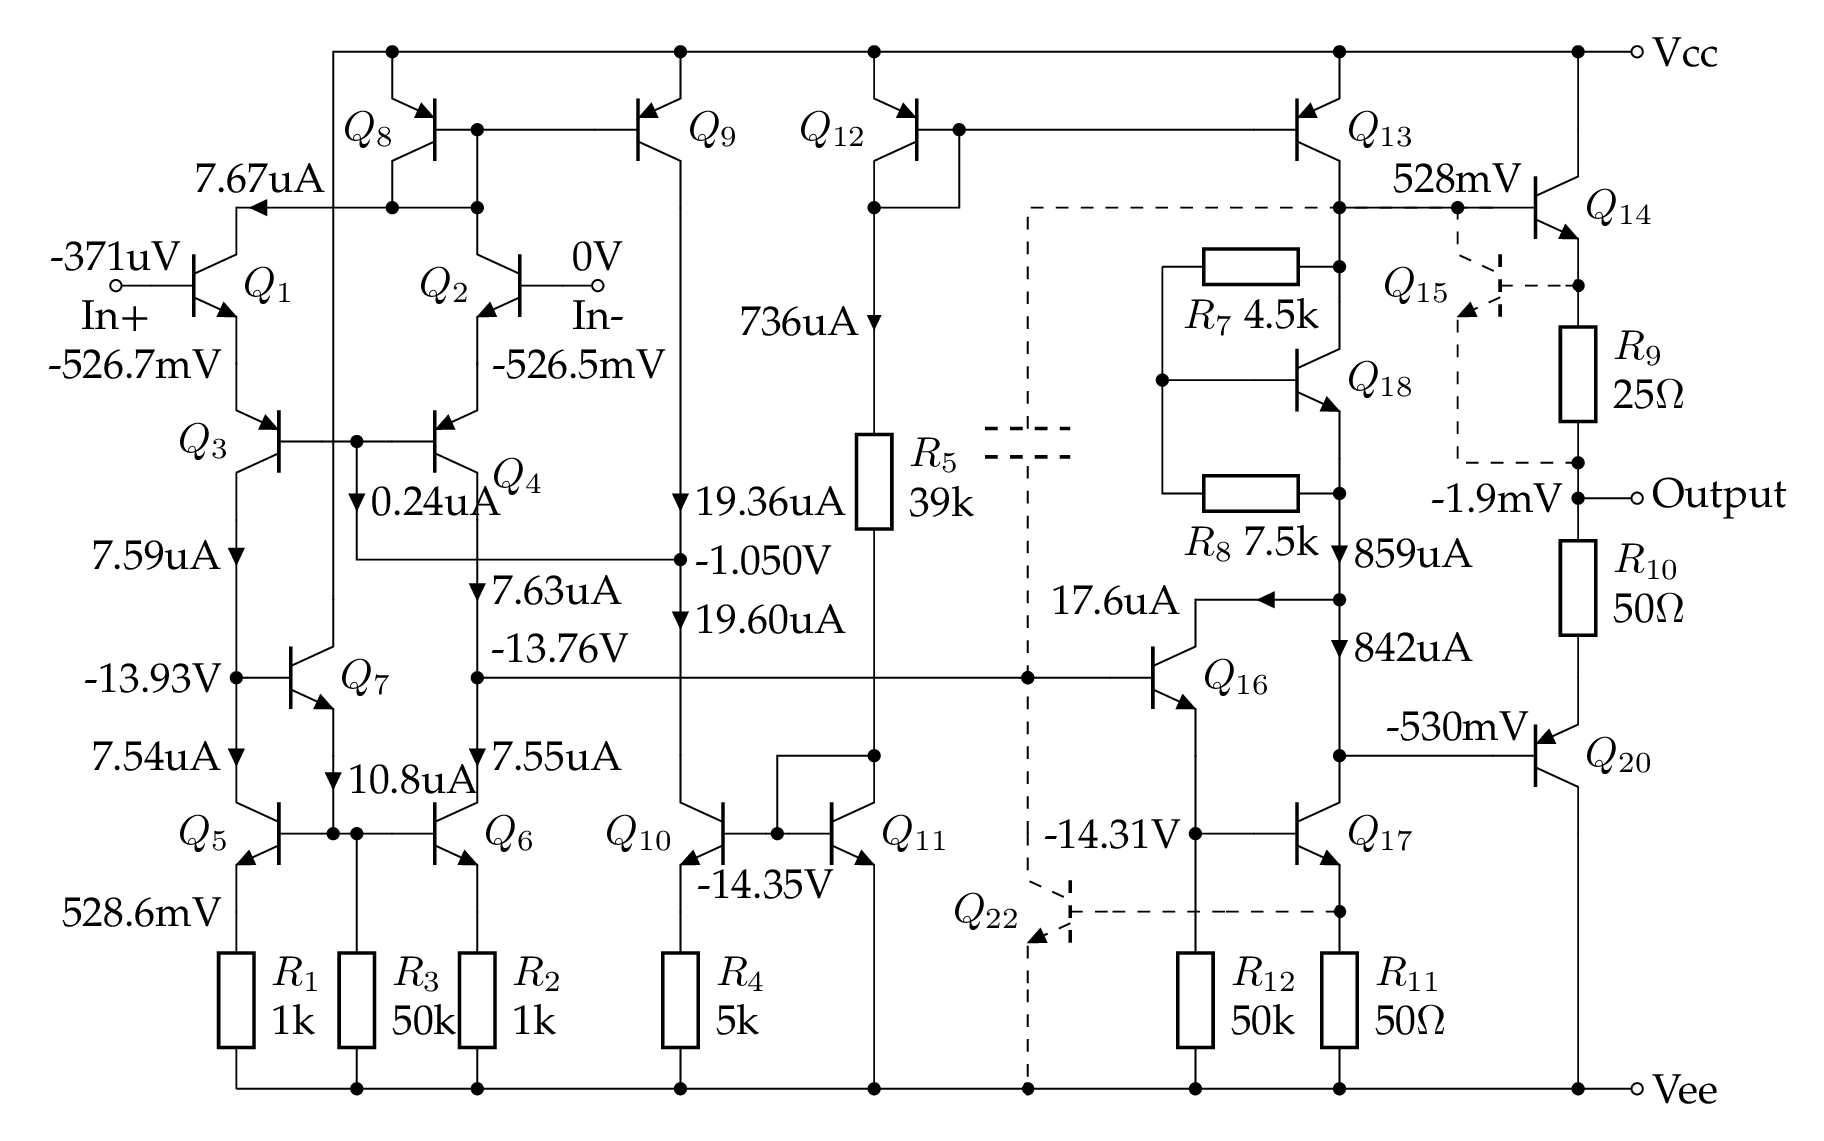
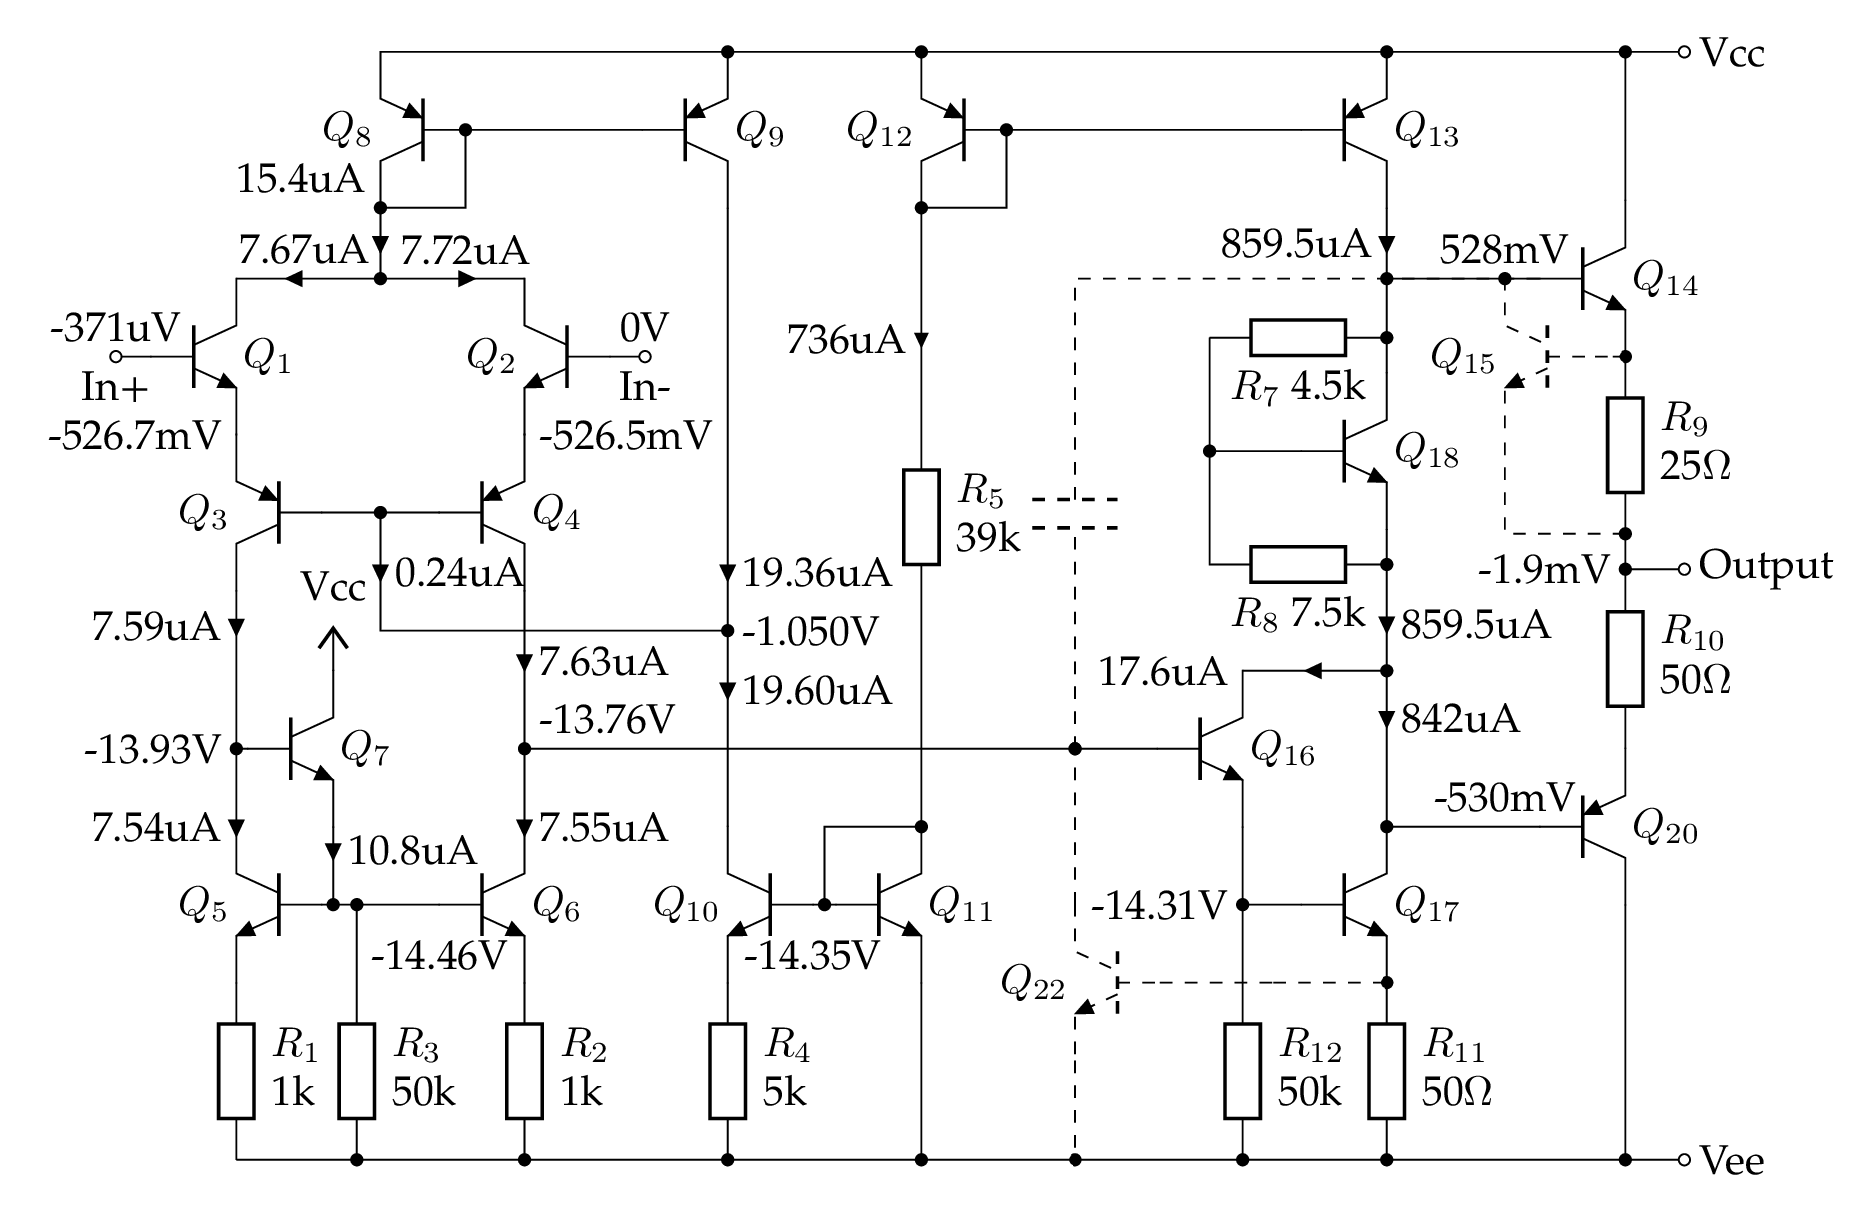
Update 741 notes.

Changed region(s): [[0.0312, 0.0307, 1.0, 0.9816], [0.4062, 0.2454, 0.5, 0.3067], [0.5312, 0.5828, 0.5938, 0.6442]]

diff --git a/docs/741.md b/docs/741.md
@@ -23,6 +23,7 @@ Dave Fullagar and [history of µA741](741/ho18opamp.pdf)
 其中面积最大的发亮的区域是 30pF 的补偿电容。
 
 ## 内部电路
+
 741 内部电路很经典，国内的模电教材上常讲的 F007 运放其实是 µA741 的“山寨版”，“F”字头我猜代表“放”大。741 的内部电路有两个常见的版本，分别有 20 个三极管和 24 个三极管，以下称为 20T 版和 24T 版。
 
 为了简化，两个调零的引脚没有画出来。
@@ -82,7 +83,7 @@ FIXME: 分立器件 XL741 笔记
 
 ### 直流工作点计算
 
-假设 \(\beta \gg 1\)，忽略基极电流，\(I_\mathrm{C}\approx I_\mathrm{E}\)：
+假设所有三极管 \(I_\mathrm{S} = 10\)fA，除输出推挽管 Q14/Q20 外，面积均相等。假设 \(\beta \gg 1\)，忽略基极电流，\(I_\mathrm{C}\approx I_\mathrm{E}\)：
 
 * 假设 Vbe = 0.65V，\(I_\mathrm{REF} = I_\mathrm{R5} = \dfrac{30-0.65\times 2}{39\mathrm{k}}\approx 0.736 \mathrm{mA}\)。Q12/Q13 是电流镜 \(I_\mathrm{C11} \approx I_\mathrm{C12} \approx I_\mathrm{C13} \approx I_\mathrm{REF} = 0.736 \mathrm{mA}\)
 
@@ -118,12 +119,12 @@ FIXME: 分立器件 XL741 笔记
 * \(I_\mathrm{B17} = I_\mathrm{E17} / (\beta+1) = 3.6\)µA
 * \(I_\mathrm{C16} \approx I_\mathrm{E16} = 13.7+3.6 = 17.3\)µA
 
-输出级：
+输出级，一般认为 Q14 和 Q20 的面积是普通管子的 3 倍：
 
 * 近似认为 Q18 的电流是 \(I_\mathrm{REF} = 0.736\)mA，则 \(V_\mathrm{BE18}\approx 0.65\)V，考虑 Q18 的 Vbe 倍增效果，\(V_\mathrm{CE18}\approx (1+\dfrac{R_7}{R_8}) V_\mathrm{BE18} = 1.6 \times 0.65 = 1.04\)V
 * 当输出为 0V 时，\(I_\mathrm{E14} = I_\mathrm{E20}\)，所以认为 \(V_\mathrm{BE14}\) 和 \(V_\mathrm{BE20}\) 平分 \(V_\mathrm{CE18}\)，即  \(V_\mathrm{BE14} =  V_\mathrm{BE20} = V_\mathrm{CE18}/2 = 0.52\)V
 
-* Q14 和 Q20 的静态偏置电流为 \(I_\mathrm{S}\exp\dfrac{V_\mathrm{BE14}}{V_\mathrm{T}} = 10\times 10 ^{-15} \exp\dfrac{0.52}{0.0258}\approx 5.7\)µA
+* Q14 和 Q20 的静态偏置电流为 \(3 I_\mathrm{S}\exp\dfrac{V_\mathrm{BE14}}{V_\mathrm{T}} = 10\times 10 ^{-15} \exp\dfrac{0.52}{0.0258}\approx 17\)µA
 
 至此，全部管子的直流工作点已经求出来。
 
@@ -138,5 +139,28 @@ FIXME: 分立器件 XL741 笔记
 ![](741/lm741-24t.png)
 
 上图把 Q22 画成普通 PNP 管，把它的第二发射极画成一个二极管。Q24 画成镜像电流源常见的形式，R5 取 39k，和手册略有不同，但和 XL741 和 Sedra&Smith 书一致。
+
+
+Q1 ~ Q12 的偏置电流的计算方法和 20T 版完全一样，此处不再重复，而直接列出结果。
+假设 \(\beta \gg 1\)，忽略基极电流，\(I_\mathrm{C}\approx I_\mathrm{E}\)：
+
+| 三极管 | \(I_\mathrm{C}\) (µA)| 计算方法 |
+| --- | --- | --- |
+| Q11/Q12 | 736 | \(I_\mathrm{REF}=\dfrac{30-2\times 0.65}{39\mathrm{k}}\) |
+| Q10/Q9/Q8 | 18.9 | \(I_\mathrm{C10} R_4 = V_\mathrm{T}\ln \dfrac{I_\mathrm{REF}}{I_\mathrm{C10}}\) |
+|Q1 ~ Q6 | 9.5 | \(I_\mathrm{C1} = I_\mathrm{C10} / 2\) |
+| Q7 | 10.86 | \(I_\mathrm{E7} \approx \dfrac{V_\mathrm{B5} - V_\mathrm{EE}}{R_3}\) |
+
+中间级，假设 \(\beta=200\)：
+
+* Q17 集电极接 Q13B 的集电极，电流为 \(I_\mathrm{C17} = \dfrac{3}{4}I_\mathrm{REF} = 552\)µA.
+* \(V_\mathrm{BE17} = V_\mathrm{T}\ln\dfrac{I_\mathrm{E17}}{I_\mathrm{S}}=25.8\times \ln \dfrac{552\times 10^{-6} (1+\beta)}{ 10^{-14}\beta} = 638\) mV, \(V_\mathrm{B17} - V_\mathrm{EE}= V_\mathrm{BE17} + I_\mathrm{E17}\,R_8 = 694\)mV
+* Q16 的发射极电流 \(I_\mathrm{E16} = I_\mathrm{B17} + I_\mathrm{R9} =\dfrac{I_\mathrm{C17}}{\beta} + \dfrac{V_\mathrm{B17} - V_\mathrm{EE}}{R_9} = 16.6\)µA
+
+
+输出级，一般认为 Q14 和 Q20 的面积是普通管子的 3 倍：
+
+* 先估算 \(V_\mathrm{CE19}=V_\mathrm{BE18} + V_\mathrm{BE19}\)
+
 
 待续。。。
